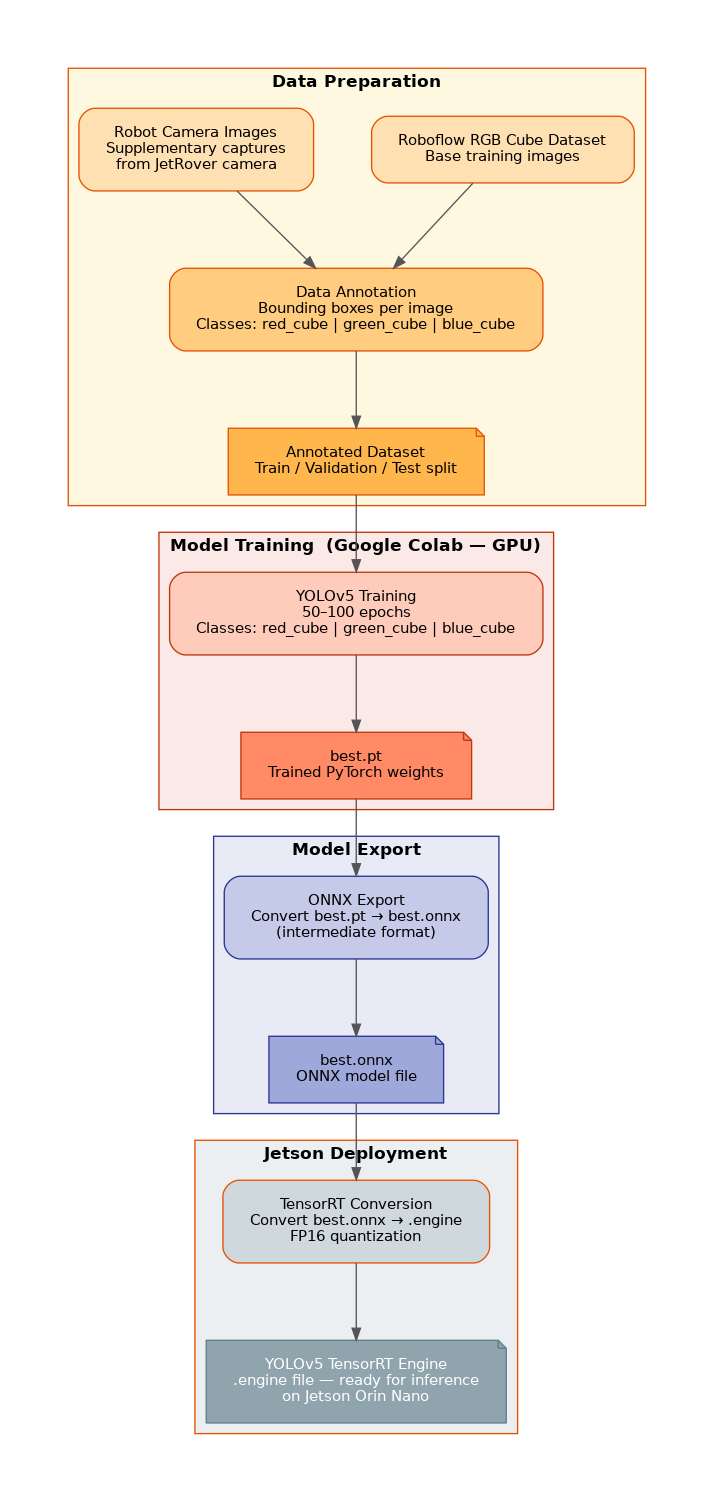
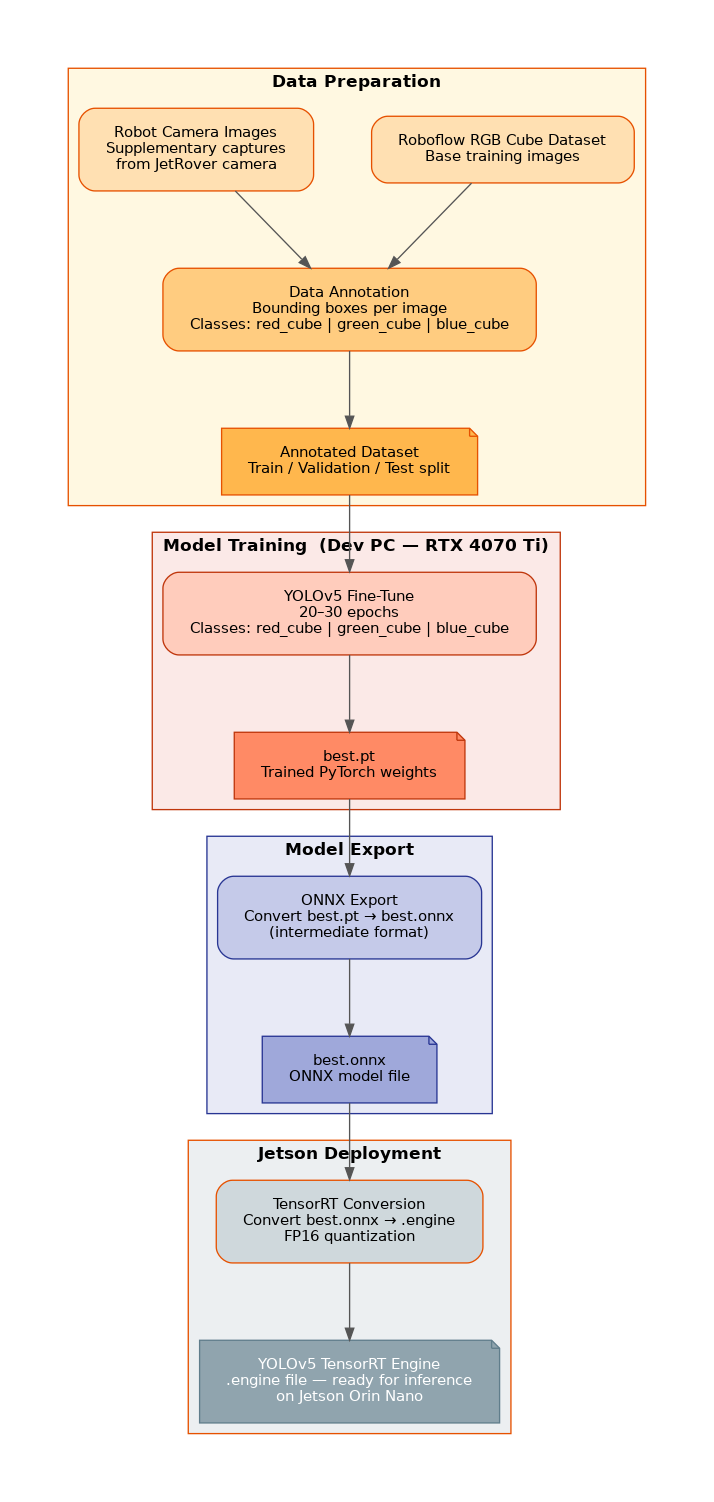
Docs: replace Google Colab with local RTX 4070 Ti training
Fine-tuning and optional training now documented on dev PC with CUDA.
Update README, milestones, technical stack, training diagram, and notebook.

diff --git a/scripts/export_onnx.py b/scripts/export_onnx.py
@@ -1,7 +1,7 @@
 #!/usr/bin/env python3
 """Export YOLOv5 weights to ONNX format (Milestone 3).
 
-Default: export Roboflow pretrained best.pt. Re-run after optional Colab fine-tune.
+Default: export Roboflow pretrained best.pt. Re-run after optional local fine-tune.
 """
 
 

diff --git a/docs/milestones.md b/docs/milestones.md
@@ -4,7 +4,7 @@
 
 **Default path:** Use pretrained YOLOv5 weights from the [Roboflow Universe project](https://universe.roboflow.com/jakub-slof/red-green-blue-cube-detection/dataset/1) → export ONNX → TensorRT → deploy.
 
-**Fallback path:** If standalone inference on robot camera images is below target accuracy, fine-tune on Colab (20–30 epochs on the Roboflow dataset; add robot images only if still failing). Do not collect and annotate a custom dataset upfront.
+**Fallback path:** If standalone inference on robot camera images is below target accuracy, fine-tune locally on dev PC (RTX 4070 Ti, 20–30 epochs on the Roboflow dataset; add robot images only if still failing). Do not collect and annotate a custom dataset upfront.
 
 TensorRT export on the Jetson is the highest schedule risk — prioritize steps 2–6 before any training work.
 
@@ -41,7 +41,7 @@ TensorRT export on the Jetson is the highest schedule risk — prioritize steps 
 - [ ] Download pretrained YOLOv5 weights from Roboflow Universe (`best.pt`)
 - [ ] Save to `models/best.pt` on dev machine or Jetson
 
-**Done when:** `best.pt` is available locally. No Colab training or custom dataset required for this milestone.
+**Done when:** `best.pt` is available locally. No local training or custom dataset required for this milestone.
 
 **Fine-tune trigger (defer to M3):** Only if standalone inference (M4) fails accuracy checks.
 
@@ -49,8 +49,8 @@ TensorRT export on the Jetson is the highest schedule risk — prioritize steps 
 
 ## M3 — ONNX Export
 
-- [ ] Export `best.pt` → `best.onnx` (local script or Colab)
-- [ ] **If M4 accuracy is poor:** fine-tune on Colab — Roboflow dataset, 20–30 epochs, optional robot camera images — then re-export ONNX
+- [ ] Export `best.pt` → `best.onnx` (local script on dev PC)
+- [ ] **If M4 accuracy is poor:** fine-tune locally on dev PC (RTX 4070 Ti) — Roboflow dataset, 20–30 epochs, optional robot camera images — then re-export ONNX
 
 **Done when:** `best.onnx` export succeeds without errors.
 
@@ -104,7 +104,7 @@ TensorRT export on the Jetson is the highest schedule risk — prioritize steps 
 3. **Obtain weights** — download Roboflow pretrained `best.pt` (no custom training yet)
 4. **Export ONNX** — `best.pt` → `best.onnx`
 5. **TensorRT conversion** — ONNX → TensorRT FP16 `.engine` on Jetson
-6. **Standalone inference test** — `scripts/test_inference.py` on robot camera snapshots; if accuracy poor → fine-tune (Colab, 20–30 epochs) and repeat steps 4–6
+6. **Standalone inference test** — `scripts/test_inference.py` on robot camera snapshots; if accuracy poor → fine-tune locally (RTX 4070 Ti, 20–30 epochs) and repeat steps 4–6
 7. **Minimal ROS 2 node** — subscribe, infer, print detections to terminal
 8. **Add publishers** — `/cube_detections` and `/cube_detections/debug_image`
 9. **Visualize** — confirm bounding boxes in RViz2 or `rqt_image_view`

diff --git a/README.md b/README.md
@@ -8,7 +8,7 @@ Detect and classify red, green, and blue cubes in real time using the JetRover o
 
 This project runs real-time cube detection on a live camera feed from a HiWonder JetRover. A YOLOv5s model finds cube-shaped objects and classifies them as `red_cube`, `green_cube`, or `blue_cube` — not just any colored region in the scene. Inference runs on the Jetson GPU via TensorRT; results are published as ROS 2 `vision_msgs/Detection2DArray` plus an annotated debug image for visualization.
 
-Pretrained Roboflow weights are used by default; optional Colab fine-tuning applies only if accuracy on the robot camera needs improvement. Target operating distance: **20–80 cm** from the camera.
+Pretrained Roboflow weights are used by default; optional local fine-tuning on a dev PC (NVIDIA RTX 4070 Ti) applies only if accuracy on the robot camera needs improvement. Target operating distance: **20–80 cm** from the camera.
 
 Built on a HiWonder JetRover with NVIDIA Jetson Orin Nano.
 
@@ -65,10 +65,10 @@ _Evaluation protocol and per-class breakdown: [`docs/evaluation.md`](docs/evalua
 
 | | Jetson (robot) | Dev machine |
 |--|----------------|-------------|
-| **Role** | Runs detection | Edit code, visualize (RViz2) |
+| **Role** | Runs detection | Edit code, optional fine-tune, visualize (RViz2) |
 | **OS / ROS / Python** | 22.04 / Humble / 3.10 | 22.04 / Humble / 3.10 |
-| **Hardware** | JetRover, Orbbec depth camera | — |
-| **Key software** | TensorRT, YOLOv5, OpenCV, cv_bridge | RViz2 (optional) |
+| **Hardware** | JetRover, Orbbec depth camera | NVIDIA RTX 4070 Ti (CUDA training) |
+| **Key software** | TensorRT, YOLOv5, OpenCV, cv_bridge | PyTorch + CUDA, RViz2 (optional) |
 
 Full dependencies and model artifacts → [`docs/technical-stack.md`](docs/technical-stack.md)
 
@@ -130,7 +130,7 @@ Full ordered setup steps → [`docs/milestones.md`](docs/milestones.md)
 | `config/` | Node parameters (`params.yaml`) |
 | `scripts/` | ONNX export, TensorRT conversion, standalone inference test |
 | `models/` | `best.pt`, `best.onnx`, `.engine` — gitignored, not committed |
-| `training/` | Optional Colab fine-tune notebook |
+| `training/` | Optional local fine-tune notebook (`train.ipynb`) |
 | `evaluation/` | 50-frame structured test script |
 | `assets/` | Pipeline diagrams; `assets/results/` for evaluation screenshots |
 | `docs/` | Architecture, milestones, logbook, evaluation protocol |

diff --git a/docs/technical-stack.md b/docs/technical-stack.md
@@ -34,24 +34,24 @@ If TensorRT conversion fails: ONNX Runtime inference (no GPU acceleration, slowe
 | Step | Where | Action |
 |------|-------|--------|
 | 1 | Roboflow Universe | Download pretrained `best.pt` from the [RGB cube detection project](https://universe.roboflow.com/jakub-slof/red-green-blue-cube-detection/dataset/1) |
-| 2 | Dev PC or Jetson | Export `best.pt` → `best.onnx` (script or Colab) |
+| 2 | Dev PC | Export `best.pt` → `best.onnx` via `scripts/export_onnx.py` |
 | 3 | Jetson | Convert `best.onnx` → TensorRT `.engine` |
 
-No Colab session required if pretrained weights meet accuracy on the robot camera.
+No local training required if pretrained weights meet accuracy on the robot camera.
 
-## Off-Robot Fine-Tuning (optional — Google Colab)
+## Dev Machine Training (optional)
 
 Use only if standalone inference on robot camera images is below target accuracy.
 
 | Component | Role |
 |-----------|------|
-| Google Colab | Cloud GPU for fine-tuning |
-| PyTorch | Training framework |
+| NVIDIA RTX 4070 Ti | Local CUDA GPU for fine-tuning |
+| PyTorch + CUDA | Training framework |
 | YOLOv5 (Ultralytics) | Object detection model (YOLOv5s) |
 | ONNX | Export intermediate format |
 | Roboflow | Pretrained weights and YOLOv5-format dataset |
 
-**Fine-tune recipe:** Roboflow dataset, 20–30 epochs. Add robot camera images only if accuracy is still below 80% after fine-tuning.
+**Fine-tune recipe:** Roboflow dataset, 20–30 epochs on dev PC. Add robot camera images only if accuracy is still below 80% after fine-tuning.
 
 **Training notebook:** [`training/train.ipynb`](../training/train.ipynb) (optional fallback)
 
@@ -87,13 +87,11 @@ Declared in `package.xml` (installed via `rosdep`):
 - `cv_bridge`
 - `std_msgs`
 
-Not in `package.xml` (system / pip, managed manually on Jetson):
+Not in `package.xml` (system / pip, managed manually):
 
-- OpenCV (`python3-opencv` or pip)
-- PyTorch (Jetson-specific wheel)
-- ONNX / ONNX Runtime
-- TensorRT (ships with JetPack)
-- YOLOv5 (cloned or pip-installed for export scripts)
+**Jetson:** OpenCV, PyTorch (Jetson wheel), ONNX / ONNX Runtime, TensorRT, YOLOv5
+
+**Dev PC (training/export):** PyTorch + CUDA, YOLOv5, ONNX
 
 ---
 

diff --git a/docs/architecture.md b/docs/architecture.md
@@ -26,7 +26,7 @@ See also: [approach rationale](Concept-and-Approach.md)
 - **Default:** Download pretrained `best.pt` from [Roboflow Universe](https://universe.roboflow.com/jakub-slof/red-green-blue-cube-detection/dataset/1) — no custom training upfront.
 - Export `best.pt` → `best.onnx` (intermediate format; version compatibility checkpoint).
 - Convert `best.onnx` → TensorRT FP16 `.engine` on the Jetson.
-- **If robot-camera accuracy fails:** fine-tune on Colab (Roboflow dataset, 20–30 epochs) — see dashed path in the diagram above.
+- **If robot-camera accuracy fails:** fine-tune locally on dev PC (RTX 4070 Ti, Roboflow dataset, 20–30 epochs) — see optional path in the diagram above.
 
 **Fallback:** If TensorRT conversion fails, run inference via ONNX Runtime (slower but functional).
 
@@ -38,7 +38,7 @@ See also: [approach rationale](Concept-and-Approach.md)
 |-----------|------|----------------|
 | `cube_detection_node` | Single ROS 2 node for the full detection pipeline | Keeps the system simple for a one-week project; one node subscribes, infers, and publishes |
 | `cv_bridge` | ROS Image ↔ OpenCV conversion | Standard ROS 2 bridge; required to pass camera frames to OpenCV/YOLOv5 |
-| YOLOv5s | Object detection + classification | Learns shape and color jointly; industry-standard, good Colab support |
+| YOLOv5s | Object detection + classification | Learns shape and color jointly; industry-standard, runs on local CUDA GPU |
 | TensorRT | GPU-accelerated inference | Required for ≥ 5 fps on Jetson Orin Nano |
 | `vision_msgs/Detection2DArray` | Detection output format | Standard ROS 2 vision message; compatible with RViz2 and future robot integration |
 

diff --git a/docs/Concept-and-Approach.md b/docs/Concept-and-Approach.md
@@ -8,7 +8,7 @@
 | Path | When | What |
 |------|------|------|
 | **Default** | Start here | Download pretrained `best.pt` from [Roboflow Universe](https://universe.roboflow.com/jakub-slof/red-green-blue-cube-detection/dataset/1) → ONNX → TensorRT → deploy |
-| **Fallback** | Only if robot-camera accuracy fails | Fine-tune on Colab — Roboflow dataset, 20–30 epochs; add robot images only if still below target |
+| **Fallback** | Only if robot-camera accuracy fails | Fine-tune locally on dev PC (RTX 4070 Ti) — Roboflow dataset, 20–30 epochs; add robot images only if still below target |
 
 Custom dataset collection and full 50–100 epoch training are **not** the default plan. TensorRT export on the Jetson is the main schedule risk — validate deployment before investing in training.
 
@@ -17,7 +17,7 @@ Custom dataset collection and full 50–100 epoch training are **not** the defau
 - Training / export pipeline: [`assets/concept2_training_pipeline.png`](../assets/concept2_training_pipeline.png) (full path; fine-tune branch is optional)
 
 **Steps:**
-1. Obtain `best.pt` — download pretrained weights from Roboflow (fine-tune on Colab only if step 6 fails).
+1. Obtain `best.pt` — download pretrained weights from Roboflow (fine-tune locally on dev PC only if step 6 fails).
 2. Export to ONNX (`best.pt` → `best.onnx`), then convert to a TensorRT FP16 engine on the Jetson.
 3. Test standalone inference on images from the robot camera.
 4. Subscribe to the camera image topic and convert frames using cv_bridge.

diff --git a/docs/project-definition.md b/docs/project-definition.md
@@ -36,7 +36,7 @@ Detect and classify colored cubes (red, green, blue) in real time using the robo
 
 A YOLOv5s model detects `red_cube`, `green_cube`, and `blue_cube`. Weights come from the [Roboflow Universe project](https://universe.roboflow.com/jakub-slof/red-green-blue-cube-detection/dataset/1) by default (pretrained — no custom training upfront). The model is exported to ONNX and converted to a TensorRT FP16 engine on the Jetson Orin Nano.
 
-**Fine-tune only if needed:** If inference on robot camera images falls below target accuracy, fine-tune on Colab (20–30 epochs on the Roboflow dataset). Custom dataset collection is a fallback, not the default plan.
+**Fine-tune only if needed:** If inference on robot camera images falls below target accuracy, fine-tune locally on dev PC (NVIDIA RTX 4070 Ti, 20–30 epochs on the Roboflow dataset). Custom dataset collection is a fallback, not the default plan.
 
 Classical CV methods (HSV/LAB thresholding, contour-based detection) are explicitly out of scope.
 
